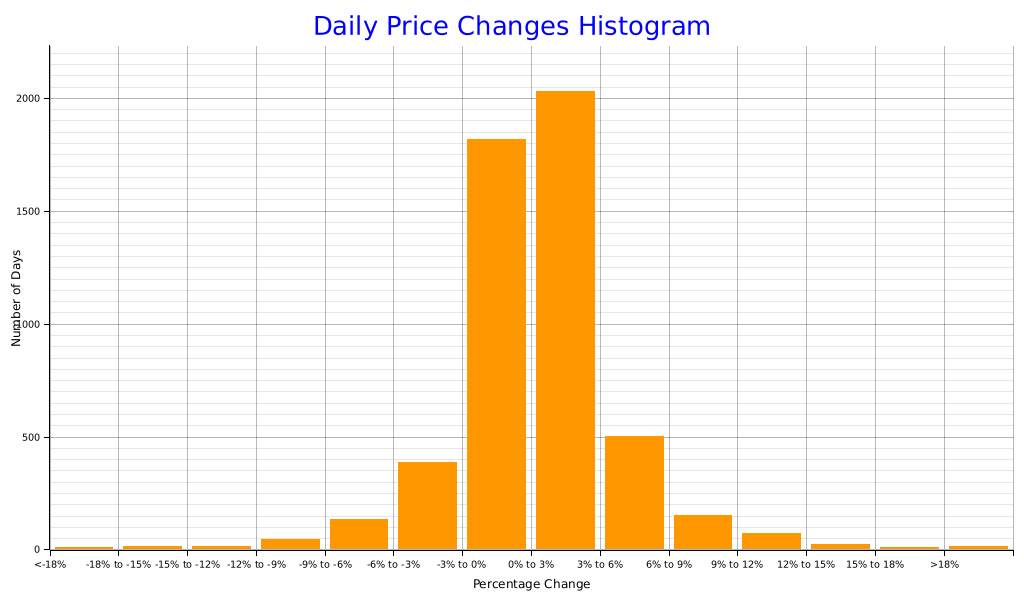
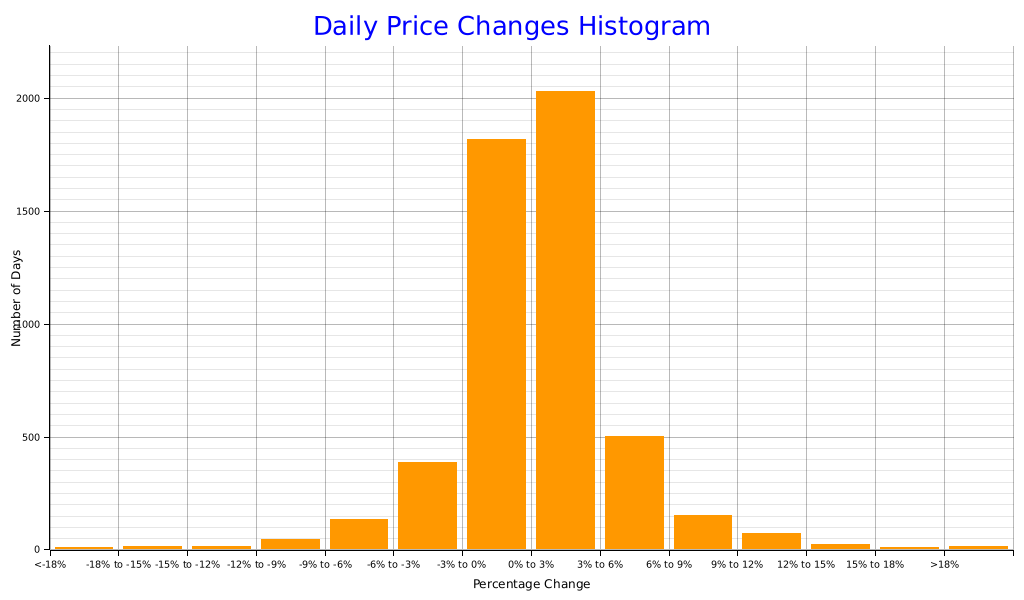
deploy: 37367be3a55653cfc7c730fffc92803847cbb72f

diff --git a/index.html b/index.html
@@ -34,7 +34,7 @@
           <td>97,860.60</td>
           <td>60,074.20</td>
           <td></td>
-          <td>3,864,661,327,872.0</td>
+          <td>3,864,637,734,912.0</td>
         </tr>
         <tr>
           <td class='yearly-summary-year'>2025</td>
@@ -194,11 +194,11 @@
         </tr>
         <tr>
           <td>-3% to 0%</td>
-          <td>1817</td>
+          <td>1818</td>
         </tr>
         <tr>
           <td>0% to 3%</td>
-          <td>2029</td>
+          <td>2028</td>
         </tr>
         <tr>
           <td>3% to 6%</td>
@@ -235,7 +235,7 @@
     <br><br>
     <a href='https://github.com/bitcoin-tools/btracker'>Link to the report codebase</a>
     <br><br>
-    This report was last updated at 2026-03-29 16:53:19.907972624 UTC.
+    This report was last updated at 2026-03-29 17:34:59.461882324 UTC.
     <br><br>
     <div class='scrollable-table'>
       <table>
@@ -258,13 +258,13 @@
             <td>2026-03-29</td>
             <td>66,331.70</td>
             <td>66,996.39</td>
-            <td>66,287.02</td>
-            <td>66,489.80</td>
-            <td class='wma-column'>59,242.53</td>
-            <td>26.44 (0.04 %)</td>
-            <td>37,043.84 (125.8 %)</td>
-            <td>709.36 (1.0 %)</td>
-            <td>170.10 (0.2 %)</td>
+            <td>66,170.85</td>
+            <td>66,192.00</td>
+            <td class='wma-column'>59,242.32</td>
+            <td>26.23 (0.04 %)</td>
+            <td>36,746.04 (124.7 %)</td>
+            <td>825.53 (1.2 %)</td>
+            <td>-127.69 (0.1 %)</td>
           </tr>
           <tr>
             <td>2026-03-28</td>
